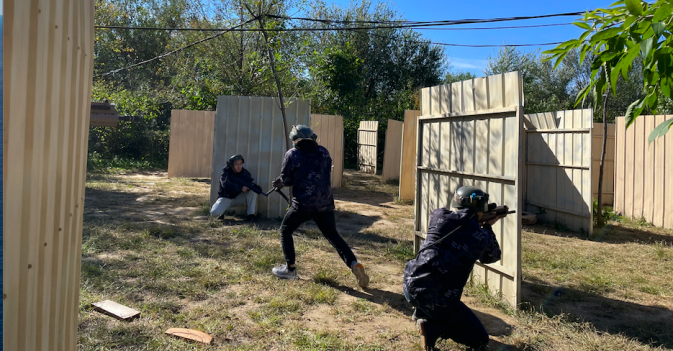
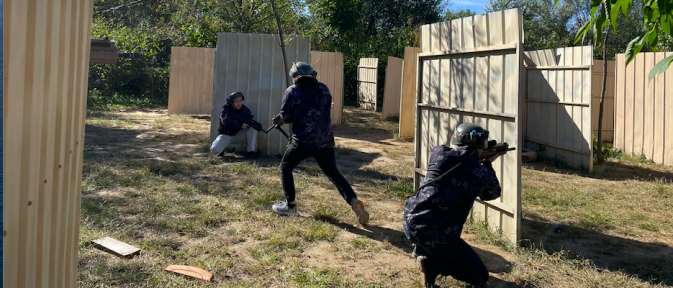
完成轮播图片裁剪工作

diff --git a/src/App.vue b/src/App.vue
@@ -17,7 +17,7 @@
               <img src="@/assets/icon/fas-fa-home.svg" alt="" />
               <p>北京交通大学计算机与信息技术学院</p>
             </el-col>
-            <el-col  :xs="6" :sm="6" :md="6" :lg="6" :xl="6">
+            <el-col :xs="6" :sm="6" :md="6" :lg="6" :xl="6">
               <router-link to="/" class="text-right">
                 <img src="@/assets/icon/fas-fa-sync-alt.svg" alt="" />
                 <p>English</p>
@@ -85,11 +85,18 @@
       <el-col :xs="24" :sm="24" :md="24" :lg="24" :xl="24" class="footer-wrap">
         <el-row class="centered footer">
           <el-col :xs="24" :sm="24" :md="16" :lg="14" :xl="14" class="footer-l">
-            <p>
+            <p class="with-logo-left">
+              <img class="footer-logo" src="@/assets/icon/arcoDesign-location.svg" alt="" />
               地址：北京市海淀区西直门外上园村3号 计算机与信息技术学院九教北5楼
             </p>
-            <p>电话：XXXXXXX</p>
-            <p>邮箱：XXXXXX@bjtu.edu.cn</p>
+            <p  class="with-logo-left">
+              <img class="footer-logo" src="@/assets/icon/fas-fa-phone.svg" alt="" />
+              电话：XXXXXXX
+            </p>
+            <p class="with-logo-left">
+              <img class="footer-logo" src="@/assets/icon/arcoDesign-email.svg" alt="" />
+              邮箱：XXXXXX@bjtu.edu.cn
+            </p>
             <br />
             <a href="https://www.bjtu.edu.cn/"
               ><p class="small-p">
@@ -104,7 +111,8 @@
           </el-col>
 
           <el-col :xs="24" :sm="24" :md="24" :lg="24" :xl="24" class="footer-b">
-            <p>
+            <p class="with-logo-center">
+              <img class="footer-logo" src="@/assets/icon/fas-fa-copyright.svg" alt="" />
               ADaM Lab for School of Computer and Information Technology,
               Beijing Jiaotong University
             </p>
@@ -168,7 +176,7 @@ a {
 }
 
 .centered {
-  max-width: 1440px;
+  max-width: 1200px;
   margin: 0 auto;
 }
 .border {
@@ -242,7 +250,7 @@ a {
 }
 .footer-wrap p {
   color: rgba(255, 255, 255, 100);
-  font-size: 20px;
+  font-size: 18px;
 }
 .footer {
   min-height: 257px;
@@ -259,6 +267,12 @@ a {
 }
 .footer-l .small-p {
   font-size: 18px;
+}
+
+.footer-l .with-logo-left{
+  display: flex;
+  flex-direction: row;
+  align-items: center;
 }
 .footer-r {
   margin-top: 40px;
@@ -282,5 +296,14 @@ a {
   color: rgba(189, 192, 193, 100);
   font-size: 16px;
   font-family: SourceHanSansSC-regular;
+  display: flex;
+  flex-direction: row;
+  align-items: center;
+  justify-content: center;
+}
+.footer-logo{
+  margin-right: 10px;
+  width: 20px;
+  height: 20px;
 }
 </style>
